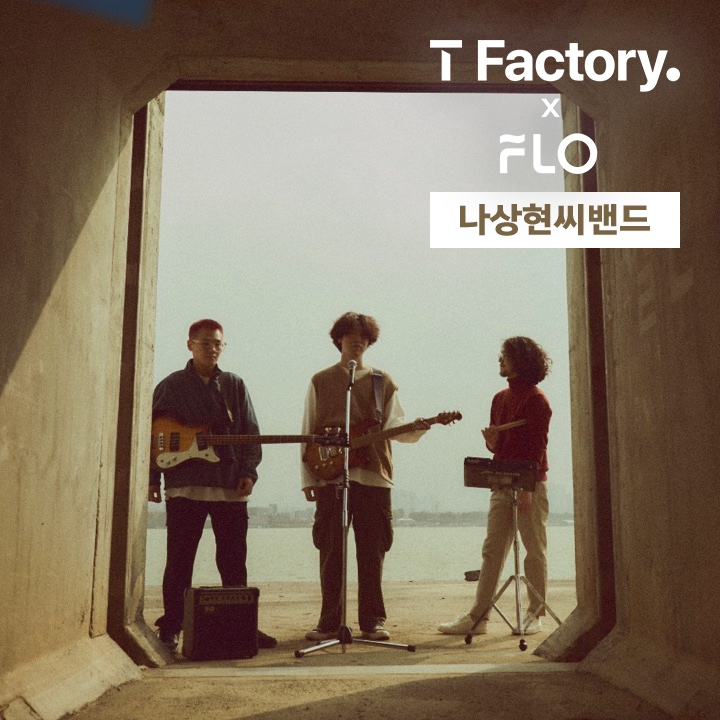
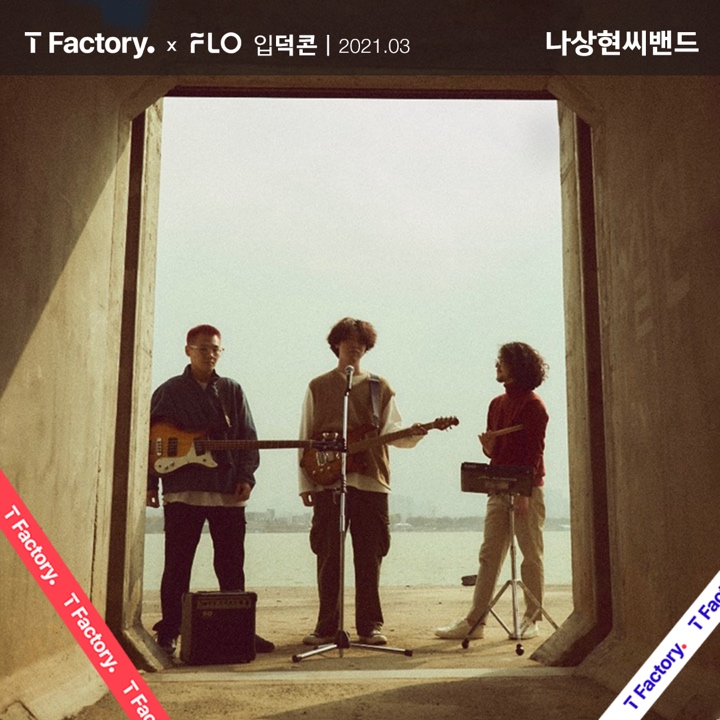
3월 프로그램 수정 및 신규제작 : 나상현씨밴드, 브로콜리너마저, SAVE THE MOMENT

diff --git a/src/assets/html/product/program/program10.html b/src/assets/html/product/program/program10.html
@@ -1,57 +1,72 @@
-<div v-bind:class="{ 'bottom-sticky': bookingAvailable }" class="contents" ref="contents"> <!-- 201211 수정 -->
+<div class="contents bottom-sticky" ref="contents">
   <!-- slide -->
   <div class="slider-prd">
-    <img src="../../../images/program/class10-slide1.jpg" alt="">
+    <img src="../../../images/program/class10-slide1.jpg" alt="T Factory X FLO 덕후콘 | 2021.03 브로콜리너마저">
   </div>
   <!-- //slide -->
   <!-- details -->
   <div class="details">
     <div class="details-header">
-      <em class="flag-solid7">OPEN STAGE</em>
-      <h2 class="details-tit">브로콜리 너마저</h2>
+      <em class="flag-solid7">CONCERT</em>
+      <h2 class="details-tit">3월의 덕콘 02.브로콜리너마저</h2>
       <div class="tags">
-        <span class="flag-basic">비 정기</span>
-        <span class="flag-basic">공연관람형</span>
-        <span class="flag-basic">소규모콘서트</span>
+        <span class="flag-basic">공연 관람형</span>
+        <span class="flag-basic">소규모 콘서트</span>
+        <span class="flag-basic">홍대 인디밴드</span>
       </div>
+      <p class="desc">
+        [T Factory X FLO 덕콘] 두 번째 <br>
+        덕후팬들을 설레게하는 덕후콘, <br>브로콜리너마저와 함께합니다.<br><br>
+
+        3월의 덕콘<br>
+        01. 입덕콘 - 나상현씨밴드<br>
+        02. 덕후콘 - 브로콜리너마저
+      </p>
     </div>
     <div class="details-inner">
-      <h3 class="subtit">{{ $t('prd.band-introduction')}}</h3>
+      <h3 class="subtit">T Factory x FLO 소개</h3>
+      <div class="thumb"><img src="../../../images/program/class10-conts2.jpg" alt="T Factory x FLO 입덕후콘서트"></div>
+      <p>
+        T Factory와 FLO가 함께 만드는 팬 초청 소규모 콘서트를 소개합니다. <br>
+        매월 입덕하고 싶은 아티스트와 덕후팬이 많은 아티스트를 선정하여 콘서트를 진행합니다.<br>
+        본 콘서트는 무료로 진행되며, 선정된 아티스트가 직접 낸 팬심고사를 통과한 팬들 중 추첨을 통해 초청권을 드립니다.
+      </p>
+      <h3 class="subtit">브로콜리너마저 소개</h3>
       <div class="thumb"><img src="../../../images/program/class10-conts.jpg" alt=""></div>
       <p>
-        많은 이들에게 '청춘을 노래하는 밴드'로 널리 알려진 밴드 브로콜리너마저는 2008년 데뷔 이후 1집 '보편적인 노래', 2집 '졸업'으로
-        많은 사랑을 받았으며 최근 3집 '속물들'을 발표하며 활발히 활동하고 있다.<br><br>
-        이제는 '청춘'을 넘어 '삶'을 이야기하는 밴드로서, 진솔한 메시지를 담은 울림이 있는 가사와 담백한 사운드로 대체 불가능한 감성을 꾸준히 선보이고 있다.<br><br>
-        2010년과 2011년 연속으로 한국 대중음악상 모던록 노래 부분을 수상하였으며, '보편적인 노래'는 '시인들이 뽑은 가사가 아름다운 노래'로 꼽히기도 했다.
+        많은 이들에게 ‘청춘을 노래하는 밴드’ 로 널리 알려진 밴드 브로콜리너마저는
+        2008년 데뷔 이후 1집 ’보편적인 노래’, 2집 ‘졸업’ 으로 많은 사랑을 받았으며
+        최근 3집 ‘속물들’ 을 발표하며 활발히 활동하고 있다.<br>
+
+        이제는 ‘청춘’을 넘어서 ‘삶’ 을 이야기하는 밴드로서, 진솔한 메시지를 담은
+        울림이 있는 가사와 담백한 사운드로 대체 불가능한 감성을 꾸준히 선보이고 있다.<br>
+
+        2010년과 2011년 연속으로 한국 대중음악상 모던록 노래 부분을 수상하였으며,
+        ‘보편적인 노래’ 는 ‘시인들이 뽑은 가사가 아름다운 노래’ 로 꼽히기도 했다.<br>
+
+        멤버는 덕원(베이스), 류지(드럼), 잔디(건반).
       </p>
-
-      <!-- 201211 수정 -->
-      <div v-if="bookingAvailable">
-        <h3 class="subtit">{{ $t('prd.schedule-place')}}</h3>
-        <p>12월 31일 목요일 저녁, T Factory 2F, 0 Stage</p>
-
-        <h3 class="subtit">{{ $t('prd.guide')}}</h3>
-        <p>코로나 블루를 날려버리고, 해피 엔딩을 맞이하자는 의미로
-          12월 오픈 스테이지는 당첨고객 대상 무료로 진행됩니다.</p>
-        <ul class="texts-info type2">
-          <li>* 현재 온라인 라이브 스테이지를 준비 중이며, 자세한 사항은 <br>T Factory 홈페이지에서 12월 20일 이후에 확인하세요.  </li>
+      <h3 class="subtit">{{ $t('prd.schedule-place')}}</h3>
+      <ul class="texts-list">
+        <li>일정 : 3월27일(토) 19시</li>
+        <li>응모기간 : 3.12(금) ~ 3.23(화)</li>
+        <li>당첨자 발표: 3.24(수)</li>
+        <li>장소: T Factory 2층, 0 Stage</li>
+      </ul>
+      <div class="notice">
+        <h4 class="subtit">{{ $t('prd.notice')}}</h4>
+        <ul class="texts-info">
+          <li>* 본 공연은 팬심고사를 완료하신 분들 중 추첨을 통해 선정되며, 선정자에게만 개별 연락이 갈 예정입니다.</li>
+          <li>* 정부의 방역지침 변경이 있을 시 공연의 주요 내용도 변경이 있을 수 있습니다.</li>
         </ul>
       </div>
-      <div v-else>
-        <div class="notice">
-          <h4 class="subtit">{{ $t('prd.notice')}}</h4>
-          <ul class="texts-info">
-            <li>※ 본 행사는 코로나19 감염증 확산 방지를 위해 잠정 연기 되었습니다. 추후 진행 일정이 확정되면 다시 안내드리겠습니다.</li>
-          </ul>
-        </div>
-      </div>
-      <!-- //201211 수정 -->
     </div>
   </div>
   <!-- //details -->
   <!-- button set -->
-  <div v-if="bookingAvailable" class="btn-wrap sticky">
-    <a @click.prevent="bookProgram" class="btn-solid">프로그램 예약</a>
+  <div class="btn-wrap sticky">
+    <a v-if="isLogin" href="https://bd3ig7ut4mo.typeform.com/to/LDgLoluO" class="btn-solid" target="_blank">콘서트 응모하기</a>
+    <a v-else href="#none" @click.prevent="login" class="btn-solid">콘서트 응모하기</a>
   </div>
   <!-- //button set -->
 </div>

diff --git a/src/assets/html/product/program/program8.html b/src/assets/html/product/program/program8.html
@@ -2,56 +2,61 @@
 <div class="contents bottom-sticky" ref="contents">
   <!-- slide -->
   <div class="slider-prd">
-    <img src="../../../images/program/class8-slide1.jpg" alt="T Factory x FLO 나상현씨 밴드">
+    <img src="../../../images/program/class8-slide1.jpg" alt="T Factory X FLO 입덕콘 | 2021.03 나상현씨밴드">
   </div>
   <!-- //slide -->
   <!-- details -->
   <div class="details">
     <div class="details-header">
       <em class="flag-solid7">CONCERT</em>
-      <h2 class="details-tit">T Factory x FLO : 나상현씨밴드</h2>
-      <p class="desc">
-        T Factory CONCERT의 시작<br>
-        이번 T Factory x FLO 소규모 콘서트는<br>
-        나상현씨밴드와 함께합니다.
-      </p>
+      <h2 class="details-tit">3월의 덕콘 01.나상현씨밴드</h2>
+
       <div class="tags">
         <span class="flag-basic">공연 관람형</span>
         <span class="flag-basic">소규모 콘서트</span>
         <span class="flag-basic">홍대 인디밴드</span>
       </div>
+      <p class="desc">
+        [T Factory X FLO 덕콘] 첫 번째 <br>
+        입덕을 부르는 아티스트를 소개하는 입덕콘, <br>나상현씨밴드와 함께합니다. <br><br>
+
+        3월의 덕콘<br>
+        01. 입덕콘 - 나상현씨밴드<br>
+        02. 덕후콘 - 브로콜리너마저
+      </p>
     </div>
     <div class="details-inner">
-      <!--
-      <h3 class="subtit">{{ $t('prd.band-introduction')}}</h3>
-      -->
       <h3 class="subtit">T Factory x FLO 소개</h3>
-      <div class="thumb"><img src="../../../images/program/class8-conts2.png" alt="T Factory x FLO Special Concert"></div>
+      <div class="thumb"><img src="../../../images/program/class8-conts2.jpg" alt="T Factory x FLO 입덕후콘서트"></div>
       <p>
-        T Factory x FLO는 T Factory와 FLO가 함께 만들어가는 팬 초청 소규모 콘서트입니다. <br>
-        선정된 아티스트의 팬심고사를 통과한 팬들 중 추첨을 통해 아티스트와 함께하는 소규모 콘서트에 초청합니다.
+        T Factory와 FLO가 함께 만드는 팬 초청 소규모 콘서트를 소개합니다.
+        매월 입덕하고 싶은 아티스트와 덕후팬이 많은 아티스트를 선정하여 콘서트를 진행합니다. <br>
+        본 콘서트는 무료로 진행되며, 선정된 아티스트가 직접 낸 팬심고사를 통과한 팬들 중 추첨을 통해 초청권을 드립니다.
       </p>
-      <h3 class="subtit">아티스트 소개</h3>
+      <h3 class="subtit">나상현씨밴드 소개</h3>
       <div class="thumb"><img src="../../../images/program/class8-conts.jpg" alt=""></div>
       <p>
-        친숙하지만 뻔하지 않은, <br>우리들을 노래하는 나상현씨밴드.<br>
+        친숙하지만 뻔하지 않은, <br>
+        우리들을 노래하는 나상현씨밴드.<br>
         나상현씨(기타,보컬)을 중심으로 강현웅(드럼), 백승렬(베이스)이 모여 3인조로 노래를 연주한다.<br>
         2014년에 결성된 그들은 밴드음악을 기반으로 다양한 장르적 방향성을 통해 보통의 이야기들을 풀어낸다.<br>
         2019년 채널A &lt;보컬플레이2&gt;를 통해 서울대밴드로 이름을 알렸으며,
-        2020년에는 제 31회 유재하 음악경연대회 장려상, 그린플러그드 신인 그린프렌즈 우승,
-        인디스땅스 TOP13 등 경연에서도 좋은 성과를 거두고 있다.<br>
+        2020년에는 제 31회 유재하 음악경연대회 장려상, 그린플러그드 신인 그린프렌즈 우승, 인디스땅스 TOP13 등 경연에서도 좋은 성과를 거두고 있다.
         2019년부터 지난 2년간 40여 곡을 발표할 만큼 활발한 창작활동을 보여주고 있다.
       </p>
-      <h3 class="subtit">모집 및 발표</h3>
-      <p>~ 3월 9일(화) 18시까지 응모 가능<br>당첨자는 3월 10일(수) 중 개별 연락
-      </p>
       <h3 class="subtit">{{ $t('prd.schedule-place')}}</h3>
-      <p>3월 12일(금) 19시<br>T Factory 2층, 0 Stage</p>
+      <ul class="texts-list">
+        <li>일정 : 3월12일(금) 19시</li>
+        <li>응모기간 : 3.5(금) ~ 3.9(화)</li>
+        <li>당첨자 발표 : 3.10(수)</li>
+        <li>장소 : T Factory 2층, 0 Stage</li>
+      </ul>
 
       <div class="notice">
         <h4 class="subtit">{{ $t('prd.notice')}}</h4>
         <ul class="texts-info">
-          <li>* 이 행사는 코로나19 방역 수칙에 따라 연기될 수 있습니다.</li>
+          <li>* 본 공연은 팬심고사를 완료하신 분들 중 추첨을 통해 선정되며, 선정자에게만 개별 연락이 갈 예정입니다. </li>
+          <li>* 정부의 방역지침 변경이 있을 시 공연의 주요 내용도 변경이 있을 수 있습니다.</li>
         </ul>
       </div>
     </div>

diff --git a/src/pages/_pagelist.vue b/src/pages/_pagelist.vue
@@ -222,7 +222,7 @@
             </li>
             <li class="pagelist-item">
               <router-link class="link" to='/experience/program8'>나상현씨밴드<br>T Factory 콘서트의 시작</router-link>
-              <div class="date"><span>12.9</span><span>1.25</span></div>
+              <div class="date"><span>12.9</span><span>3.11</span></div>
             </li>
             <li class="pagelist-item">
               <router-link class="link" to='/experience/program9'>페퍼톤스</router-link>
@@ -230,7 +230,7 @@
             </li>
             <li class="pagelist-item">
               <router-link class="link" to='/experience/program10'>브로콜리 너마저</router-link>
-              <div class="date"><span>12.9</span><span>12.15</span></div>
+              <div class="date"><span>12.9</span><span>3.11</span></div>
             </li>
             <li class="pagelist-item">
               <router-link class="link" to='/experience/program11'>갤럭시 스튜디오 [Galaxy S21 체험존] T팩토리에서 Galaxy Studio를
@@ -250,7 +250,7 @@
             </li>
             <li class="pagelist-item">
               <router-link class="link" to='/experience/program14'>SAVE THE MOMENT</router-link>
-              <div class="date"><span>2.26</span></div>
+              <div class="date"><span>2.26</span><span>3.11</span></div>
             </li>
             <li class="pagelist-item">
               <router-link class="link" to='/experience/program15'>Welcome to ⓥ Studio!</router-link>

diff --git a/src/assets/html/product/program/program14.html b/src/assets/html/product/program/program14.html
@@ -1,4 +1,4 @@
-<div v-bind:class="{ 'bottom-sticky': bookingAvailable }" class="contents" ref="contents">
+<div class="contents bottom-sticky" ref="contents">
   <!-- slide -->
   <div class="slider-prd">
     <img src="../../../images/program/class14-slide1.jpg" alt="">
@@ -8,7 +8,7 @@
   <div class="details">
     <div class="details-header">
       <em class="flag-solid7">CONCERT</em>
-      <h2 class="details-tit">SAVE THE MOMENT</h2>
+      <h2 class="details-tit">SAVE THE MOMENT (종료)</h2>
       <div class="tags">
         <span class="flag-basic">공연후원</span>
         <span class="flag-basic">롤링홀</span>
@@ -50,7 +50,7 @@
   <!-- //details -->
   <!-- button set -->
   <div class="btn-wrap sticky">
-    <a href="https://www.instagram.com/p/CLvtFe6L4DU/?igshid=1lnfsu21pbsgf" class="btn-solid" target="_blank">응원 이벤트 참여하기</a>
+    <button type="button" class="btn-solid disabled" disabled>응원 이벤트 마감</button>
   </div>
   <!-- //button set -->
 </div>
